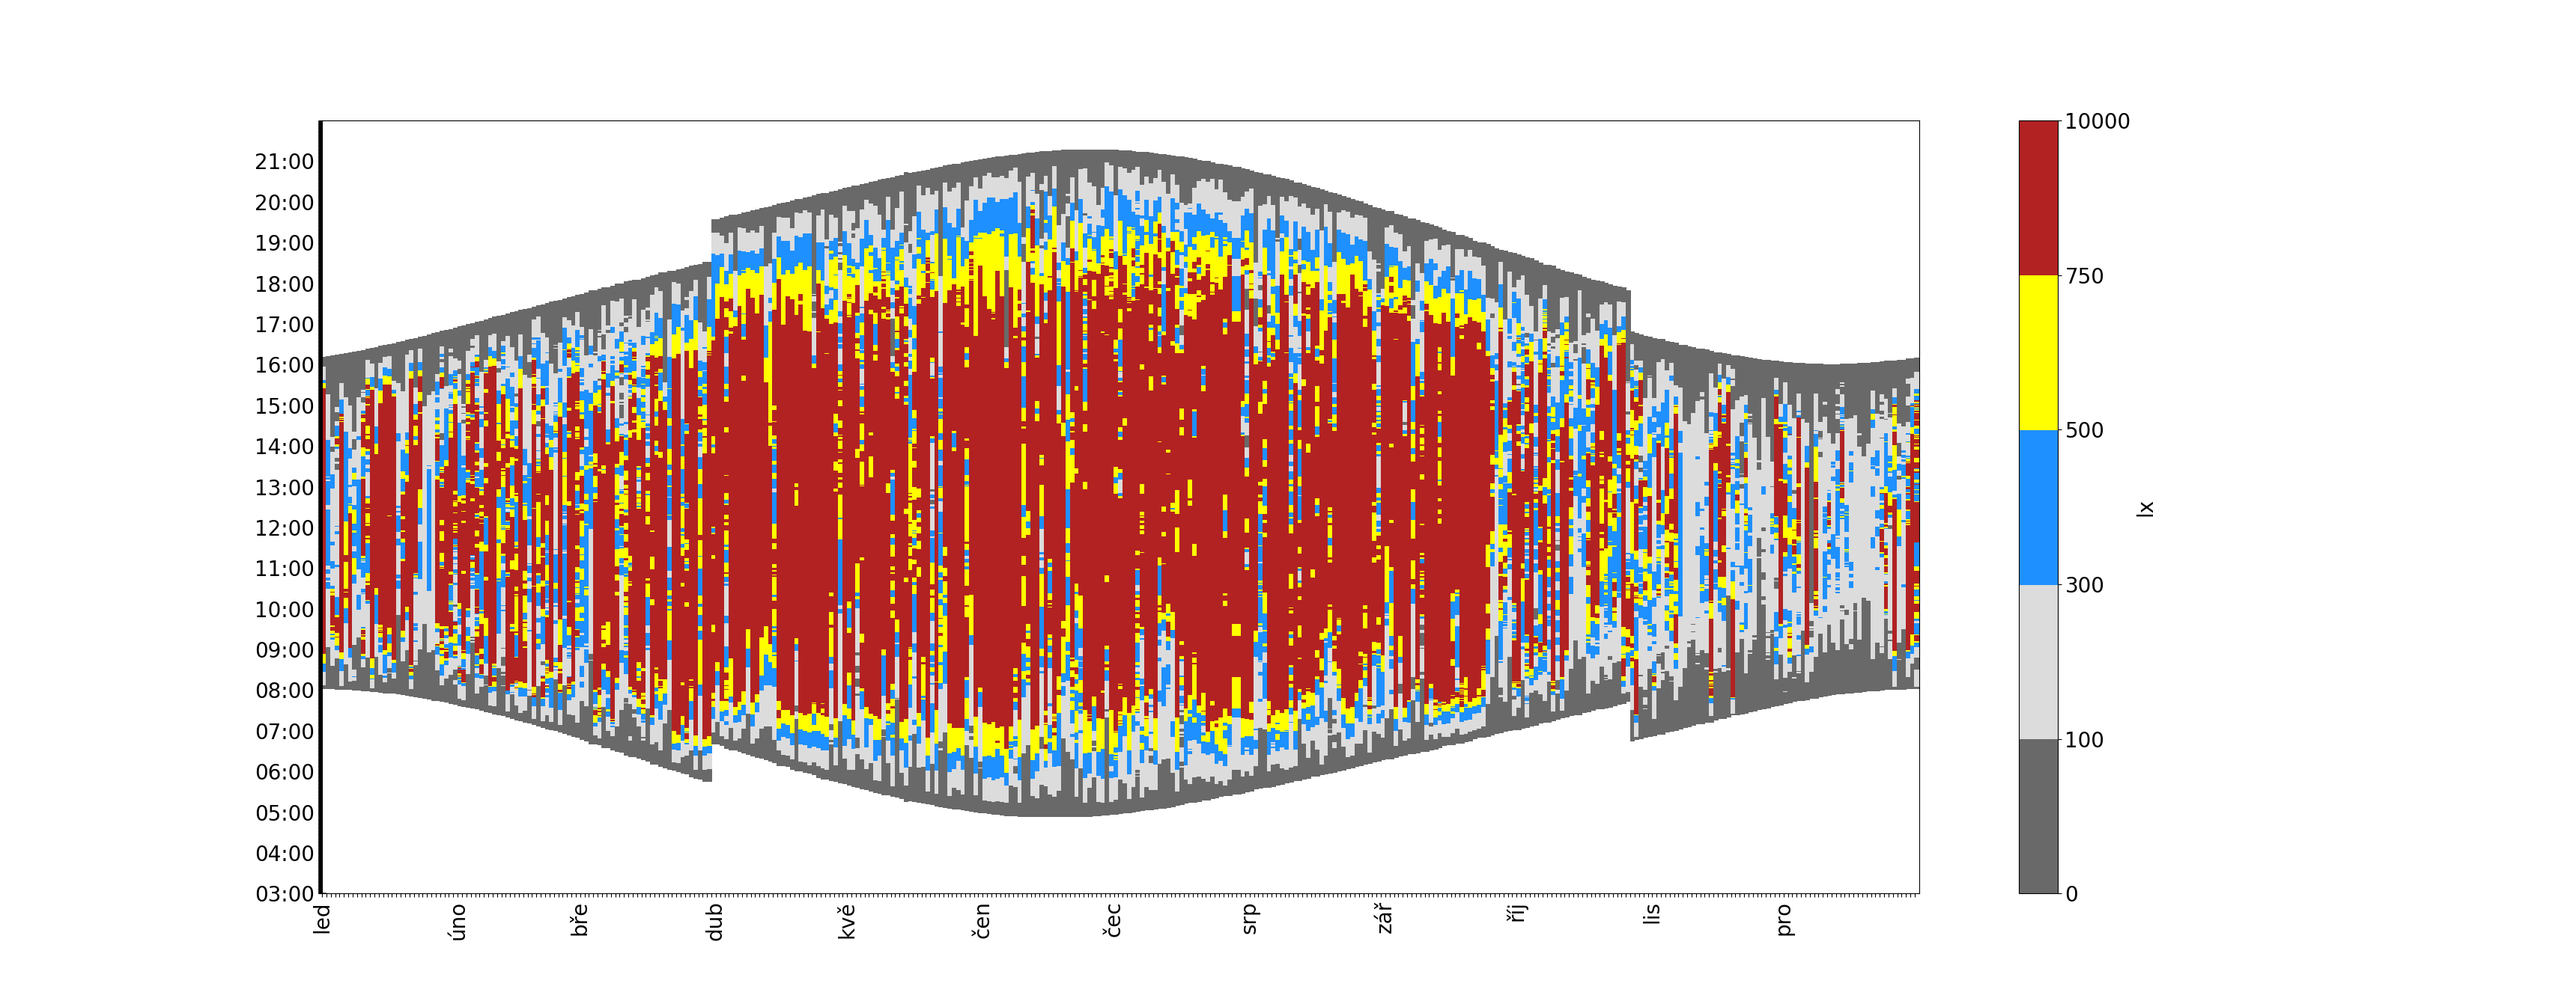
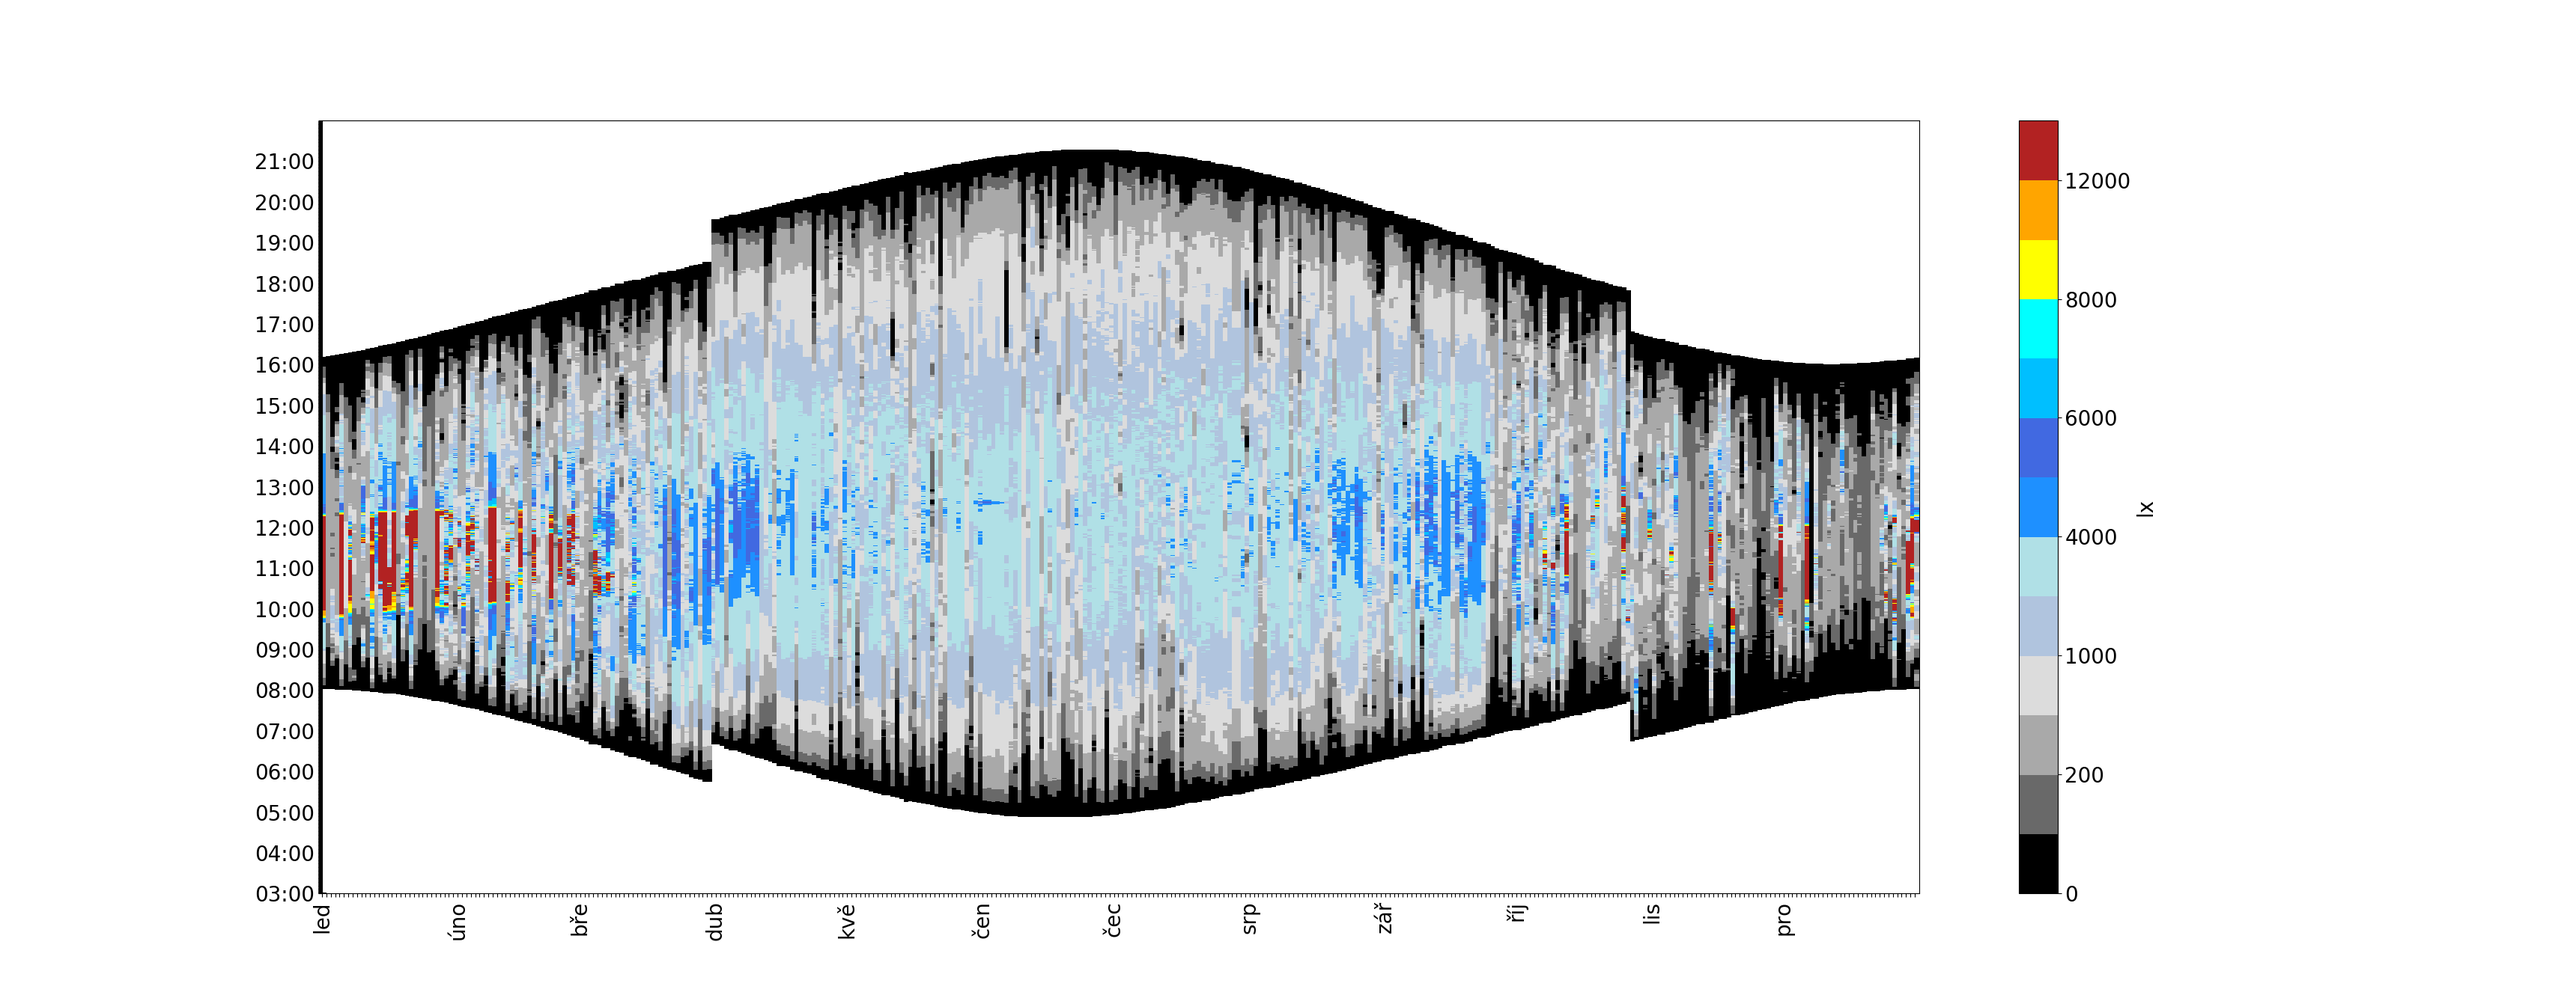
Colorscale like exterier but /10 for median_19_interier_t_cvs_ 4 and 5

diff --git a/median_19_interier_t_cvs_4.py b/median_19_interier_t_cvs_4.py
@@ -39,8 +39,8 @@ print(df2)
 fig, ax = plt.subplots()
 
 from matplotlib import colors
-cmap = colors.ListedColormap(['dimgray', 'gainsboro', 'dodgerblue', 'yellow', 'firebrick'])
-bounds=[0, 100, 300, 500, 750, 10000]
+cmap = colors.ListedColormap(['black', 'dimgray', 'darkgrey', 'gainsboro', 'lightsteelblue', 'powderblue', 'dodgerblue', 'royalblue', 'deepskyblue', 'cyan', 'yellow', 'orange', 'firebrick'])
+bounds=[0, 100, 200, 500, 1000, 2000, 4000, 5000, 6000, 7000, 8000, 10000, 12000, 15000]
 norm = colors.BoundaryNorm(bounds, cmap.N)
 im = ax.pcolor(df2, cmap=cmap, norm=norm)
 

diff --git a/median_19_interier_t_cvs_5.py b/median_19_interier_t_cvs_5.py
@@ -39,8 +39,8 @@ print(df2)
 fig, ax = plt.subplots()
 
 from matplotlib import colors
-cmap = colors.ListedColormap(['dimgray', 'gainsboro', 'dodgerblue', 'yellow', 'firebrick'])
-bounds=[0, 100, 300, 500, 750, 10000]
+cmap = colors.ListedColormap(['black', 'dimgray', 'darkgrey', 'gainsboro', 'lightsteelblue', 'powderblue', 'dodgerblue', 'royalblue', 'deepskyblue', 'cyan', 'yellow', 'orange', 'firebrick'])
+bounds=[0, 100, 200, 500, 1000, 2000, 4000, 5000, 6000, 7000, 8000, 10000, 12000, 15000]
 norm = colors.BoundaryNorm(bounds, cmap.N)
 im = ax.pcolor(df2, cmap=cmap, norm=norm)
 
